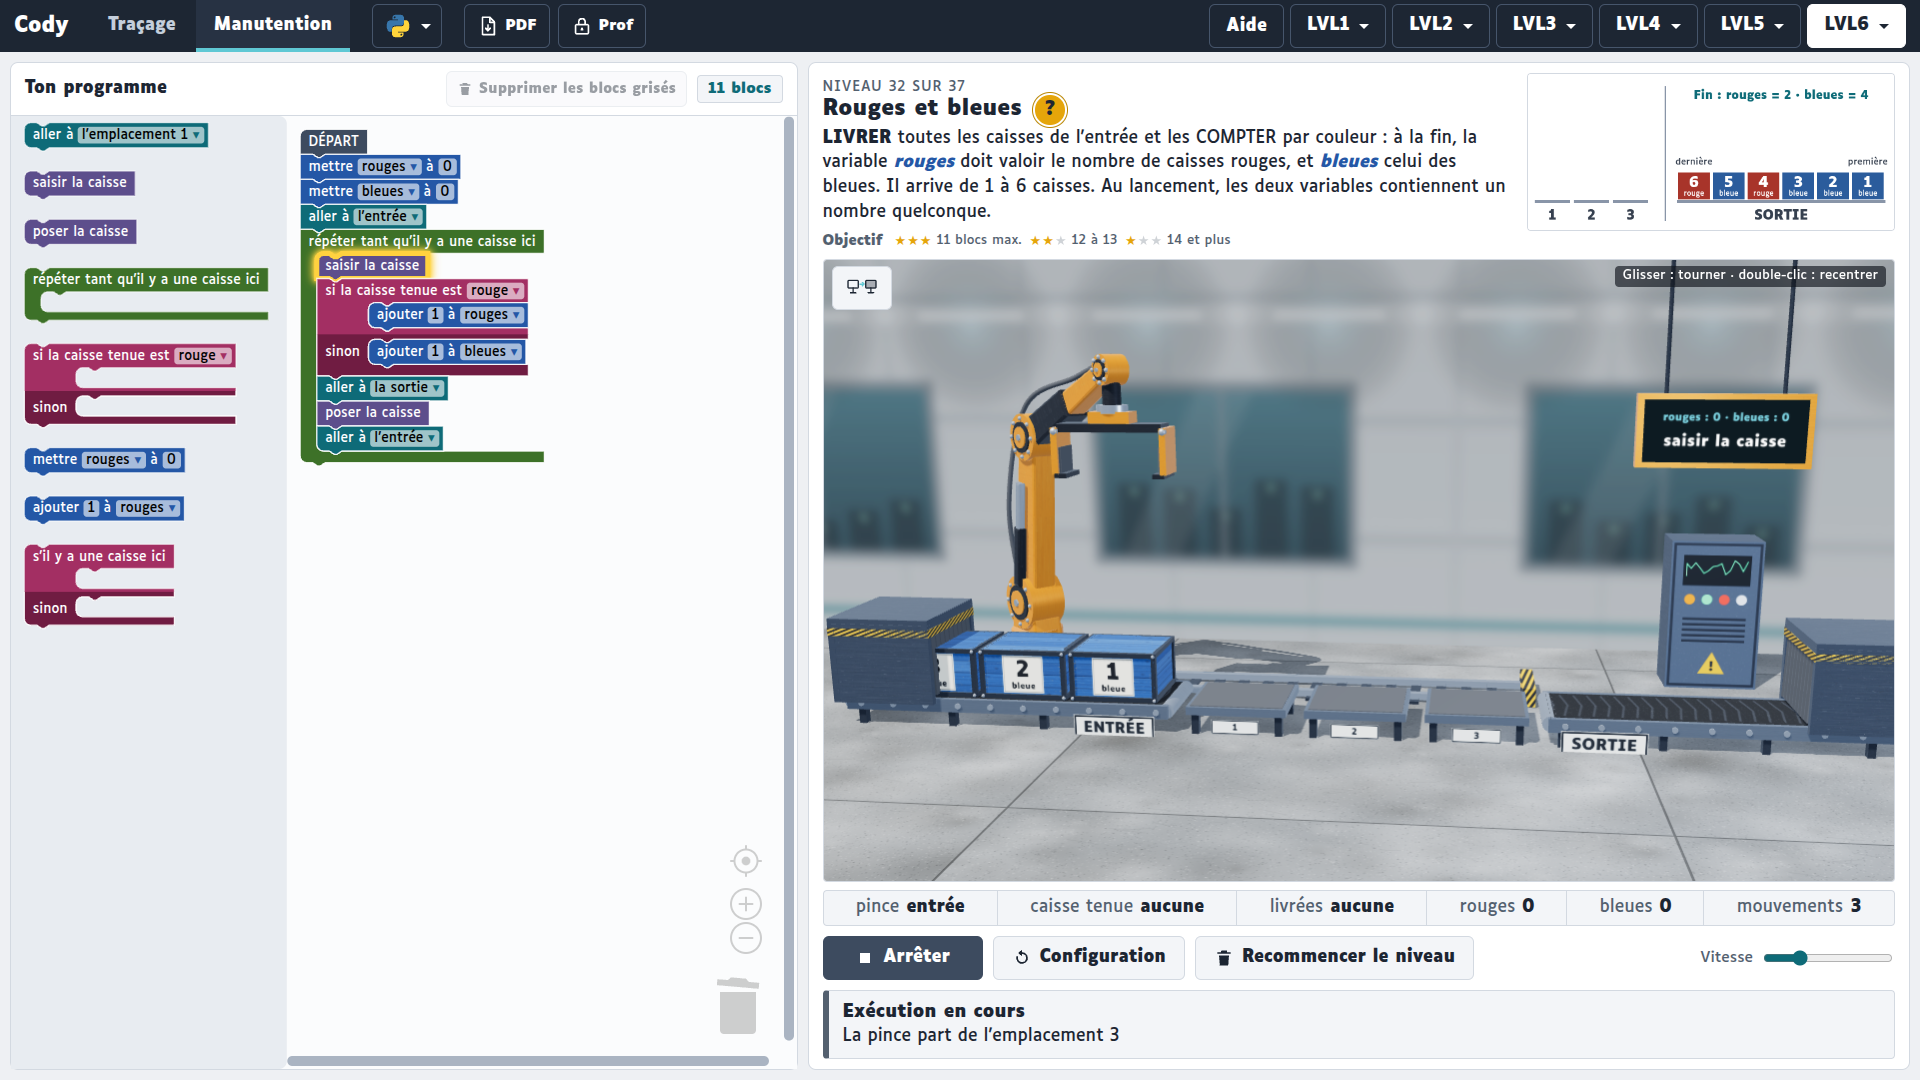
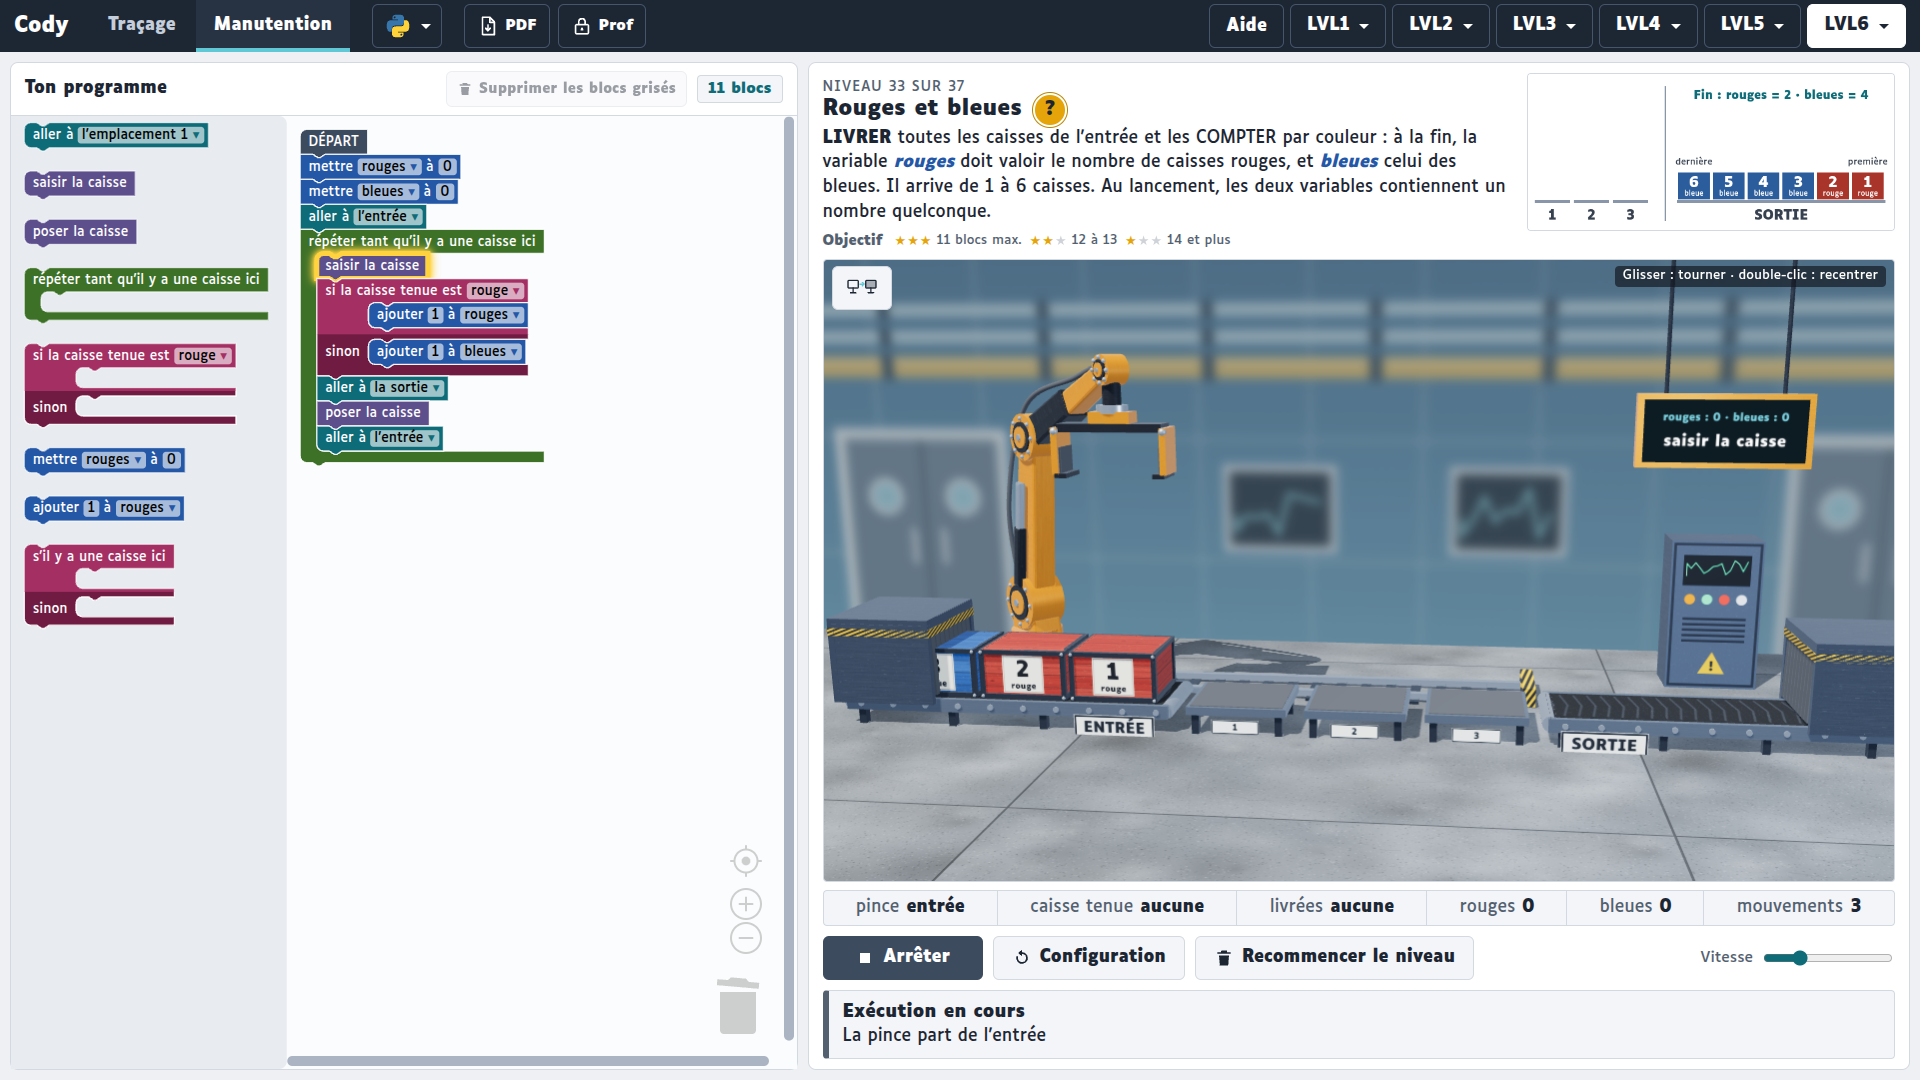
Variables reclassées par difficulté ; Rejouer au maximum ; aide plus compacte
- « Commande en double » (lire une variable) passe en tête du groupe (niveau 28) ;
  les anciens 28 à 34 avancent d'un rang. Étoiles, programmes et niveau ouvert
  des élèves suivent leur exercice (migration « manut-variables-ordre »).
- « Rejouer au maximum » prend aussi les plus grandes valeurs des variables
  données (niveau 28 : nombre = 3).
- Page d'aide : police et marges réduites, tout tient en 1920 x 1080, bouton
  « Commencer » compris.
- Docs et capture mises à jour.

diff --git a/js/manutention-moteur.js b/js/manutention-moteur.js
@@ -33,7 +33,7 @@
   const retirer = (v, n = 1) => ({ t: "retirer", v, n });
   const tantquevar = (v, op, n, ...corps) => ({ t: "tantquevar", v, op, n, corps });
   const sivar = (v, op, n, alors, sinon) => ({ t: "sivar", v, op, n, alors, sinon });
-  /* Comparer deux variables (niveaux 35 et 36 : une variable ne se compare pas qu'à un nombre) */
+  /* Comparer deux variables (niveaux 36 et 37 : une variable ne se compare pas qu'à un nombre) */
   /* Répéter autant de fois que la valeur d'une variable (lue une fois, au début de la boucle) */
   const repetervar = (v, ...corps) => ({ t: "repetervar", v, corps });
   const tantquevar2 = (v, op, w, ...corps) => ({ t: "tantquevar2", v, op, w, corps });
@@ -178,6 +178,7 @@
   });
 
   /* ---------- Groupe « Variables » (niveaux 28 à 37 de l'atelier) : le même bras, plus des variables ----------
+     Classés par difficulté : lire une variable (28), la modifier (29 à 35), en comparer deux (36, 37).
      Chaque niveau nomme ses variables (« variables ») ; chaque cas donne leurs valeurs au lancement
      (« vars ») et, quand elles sont contrôlées, leurs valeurs attendues à la fin (« varsFin »).
      Une variable qui n'est pas une donnée de l'exercice contient au lancement un nombre quelconque :
@@ -252,6 +253,14 @@
   const QUELCONQUE = "Au lancement, le {compteur} contient un nombre quelconque.";
 
   const VARIABLES = [
+    { titre: "Commande en double", verbe: "LIVRER", variables: ["nombre"], donnees: ["nombre"],
+      texte: "à la sortie autant de caisses que vaut la variable {nombre}, PUIS le MÊME nombre à l'emplacement 3, dans l'ordre d'arrivée. {nombre} vaut de 1 à 3 et change d'un essai à l'autre. L'entrée contient 6 caisses ; les autres y restent.",
+      indice: "Le bloc « répéter … fois » peut aussi recevoir une variable : « répéter {nombre} fois ». Deux boucles suffisent.",
+      blocs: [...BASE, "repeter", "repetervar"],
+      configs: [["JVBRBJ", 2], ["RBJVRB", 1], ["BBRJVR", 3]].map(([m, n]) => double(m, n)),
+      hasard: (alea = Math.random) => double(motifAlea(alea, 6, 6, "RBJV"), entier(alea, 1, 3)),
+      prog: [repetervar("nombre", aller("E"), saisir(), aller("S"), poser()),
+        repetervar("nombre", aller("E"), saisir(), aller("3"), poser())], opt: 10 },
     { titre: "Compter les caisses", verbe: "LIVRER", variables: ["compteur"],
       texte: `toutes les caisses de l'entrée et les COMPTER : à la fin, le {compteur} doit valoir le nombre de caisses livrées. Il en arrive de 1 à 6. ${QUELCONQUE}`,
       indice: "Mets d'abord le {compteur} à 0, puis ajoute 1 à chaque caisse livrée.",
@@ -305,14 +314,6 @@
       hasard: (alea = Math.random) => autant(motifAlea(alea, 1, 3, RBJ), quelconque(alea)),
       prog: [mettre("compteur", 0), aller("E"), tantque(saisir(), aller("S"), poser(), ajouter("compteur"), aller("E")),
         tantquevar("compteur", "gt", 0, aller("1"), saisir(), aller("S"), poser(), retirer("compteur"))], opt: 14 },
-    { titre: "Commande en double", verbe: "LIVRER", variables: ["nombre"], donnees: ["nombre"],
-      texte: "à la sortie autant de caisses que vaut la variable {nombre}, PUIS le MÊME nombre à l'emplacement 3, dans l'ordre d'arrivée. {nombre} vaut de 1 à 3 et change d'un essai à l'autre. L'entrée contient 6 caisses ; les autres y restent.",
-      indice: "Le bloc « répéter … fois » peut aussi recevoir une variable : « répéter {nombre} fois ». Deux boucles suffisent.",
-      blocs: [...BASE, "repeter", "repetervar"],
-      configs: [["JVBRBJ", 2], ["RBJVRB", 1], ["BBRJVR", 3]].map(([m, n]) => double(m, n)),
-      hasard: (alea = Math.random) => double(motifAlea(alea, 6, 6, "RBJV"), entier(alea, 1, 3)),
-      prog: [repetervar("nombre", aller("E"), saisir(), aller("S"), poser()),
-        repetervar("nombre", aller("E"), saisir(), aller("3"), poser())], opt: 10 },
     { titre: "Bon de commande", verbe: "LIVRER", variables: ["commande", "livraisons"], donnees: ["commande"],
       texte: "autant de caisses que la commande en demande, en les COMPTANT dans {livraisons}. La variable {commande} (de 1 à 5) ne doit pas changer : à la fin, {livraisons} doit être égale à {commande}. L'entrée contient 6 caisses ; les autres y restent. Au lancement, {livraisons} contient un nombre quelconque.",
       indice: "Une variable peut se comparer à une autre : répète tant que {livraisons} est plus petite que {commande}.",

diff --git a/tests/variables.test.js b/tests/variables.test.js
@@ -9,9 +9,9 @@ const poser = () => ({ t: "poser" });
 /* Générateur pseudo-aléatoire reproductible */
 const graine = (n) => () => ((n = (n * 16807) % 2147483647) - 1) / 2147483646;
 
-test("groupe « Variables » : 9 niveaux, optima attendus", () => {
+test("groupe « Variables » : 10 niveaux, optima attendus", () => {
   assert.deepEqual(V.map((n) => n.groupe), Array(10).fill("Variables"));
-  assert.deepEqual(V.map((n) => n.opt), [8, 6, 10, 12, 11, 11, 14, 10, 7, 22]);
+  assert.deepEqual(V.map((n) => n.opt), [10, 8, 6, 10, 12, 11, 11, 14, 7, 22]);
 });
 
 test("au moins deux niveaux comparent deux variables", () => {
@@ -70,25 +70,25 @@ test("« tant que » sur une variable qui ne change pas : arrêt par la limite",
 });
 
 test("variable contrôlée fausse : motif « variables », caisses bien placées", () => {
-  const niv = V[0];
+  const niv = V[1];
   const prog = [aller("E"), { t: "tantque", corps: [saisir(), aller("S"), poser(), aller("E")] }];
   const r = M.verifier(niv, prog);
   assert.equal(r.reussi, false);
   assert.equal(r.motif, "variables");
 });
 
-test("niveau 34 : livrer en alternant (sans variable) ne respecte pas l'ordre de la sortie", () => {
-  const niv = V[6];
+test("niveau 35 : livrer en alternant (sans variable) ne respecte pas l'ordre de la sortie", () => {
+  const niv = V[7];
   const prog = [aller("E"), { t: "tantque", corps: [saisir(), aller("S"), poser(), aller("1"), saisir(), aller("S"), poser(), aller("E")] }];
   assert.equal(M.verifier(niv, prog).reussi, false);
 });
 
 test("Python : noms des variables et comparaisons", () => {
-  const py = M.python(V[2].prog);
+  const py = M.python(V[3].prog);
   assert.match(py, /^compteur = 0$/m);
   assert.match(py, /if compteur < 4:/);
   assert.match(py, /compteur = compteur \+ 1/);
-  assert.match(M.python(V[1].prog), /while compteur > 0:/);
+  assert.match(M.python(V[2].prog), /while compteur > 0:/);
 });
 
 test("comparer deux variables : <, >, =, ≠", () => {
@@ -120,8 +120,13 @@ test("répéter « variable » fois : la valeur est lue une fois, au début", ()
   assert.match(M.python(prog), /for i in range\(n\):/);
 });
 
-test("niveau 35 : un nombre fixe de répétitions échoue (nombre change)", () => {
+test("niveau 28 : un nombre fixe de répétitions échoue (nombre change)", () => {
   const corps = (p) => [aller("E"), saisir(), aller(p), poser()];
   const prog = [{ t: "repeter", n: 2, corps: corps("S") }, { t: "repeter", n: 2, corps: corps("3") }];
-  assert.equal(M.verifier(V[7], prog).reussi, false);
+  assert.equal(M.verifier(V[0], prog).reussi, false);
+});
+
+test("groupe « Variables » : classé par difficulté, lire une variable avant de la modifier", () => {
+  assert.equal(V[0].titre, "Commande en double");
+  assert.deepEqual(V.slice(-2).map((n) => n.titre), ["Bon de commande", "La couleur majoritaire"]);
 });

diff --git a/tortue.css b/tortue.css
@@ -240,27 +240,28 @@ a:focus-visible,button:focus-visible,summary:focus-visible,input:focus-visible{o
 /* Page d'explications (niveau 0) */
 .jeu[hidden],.intro[hidden]{display:none}
 .intro{flex:1;min-height:0;overflow-y:auto;display:flex;padding:16px}
-.intro-page{width:100%;max-width:1660px;margin:auto;text-align:center;font-size:20px;line-height:1.7}
-.intro h2{font-size:38px}
-.intro h3{margin:0 0 10px;font-size:22px;color:var(--accent)}
+/* Tout doit tenir en 1920 x 1080, bouton « Commencer » compris (sinon un élève peut rester bloqué) */
+.intro-page{width:100%;max-width:1660px;margin:auto;text-align:center;font-size:18px;line-height:1.5}
+.intro h2{font-size:32px}
+.intro h3{margin:0 0 8px;font-size:20px;color:var(--accent)}
 .intro p{margin:4px 0}
 .intro .intro-chapeau{margin-top:10px;color:var(--doux)}
 .intro .intro-chapeau+.intro-chapeau{margin-top:2px}
-.intro-regle{margin:28px auto 0;max-width:860px;padding:22px 30px;border-radius:12px;border:2px solid #e5a50a;background:var(--carte)}
-.intro .intro-regle h3{color:var(--ink);font-size:28px}
-.intro-cartes{display:grid;grid-template-columns:minmax(0,1fr) minmax(0,2.75fr) minmax(0,1fr);gap:24px;margin-top:30px;text-align:left}
-.intro-cartes .carte{padding:20px 24px;display:block}
+.intro-regle{margin:18px auto 0;max-width:860px;padding:14px 26px;border-radius:12px;border:2px solid #e5a50a;background:var(--carte)}
+.intro .intro-regle h3{color:var(--ink);font-size:24px}
+.intro-cartes{display:grid;grid-template-columns:minmax(0,1.25fr) minmax(0,2fr) minmax(0,1.25fr);gap:20px;margin-top:20px;text-align:left}
+.intro-cartes .carte{padding:16px 22px;display:block}
 .intro-cartes dl{margin:0}
 .intro-cartes dt{font-weight:700}
-.intro-cartes dd{margin:0 0 12px;color:var(--doux);line-height:1.45}
+.intro-cartes dd{margin:0 0 8px;color:var(--doux);line-height:1.4}
 .intro-cartes dd:last-child{margin-bottom:0}
 .intro-postes{list-style:none;margin:0;padding:0}
-.intro-postes li{display:flex;align-items:center;gap:14px;margin-bottom:14px;font-size:17px;line-height:1.4}
+.intro-postes li{display:flex;align-items:center;gap:14px;margin-bottom:12px;font-size:17px;line-height:1.4}
 .intro-postes li:last-child{margin-bottom:0}
 .intro-postes svg{flex:0 0 108px;width:108px}
-.intro .intro-etoiles{margin-top:30px}
+.intro .intro-etoiles{margin-top:16px}
 .intro-etoiles span{color:#e5a50a;margin-right:8px}
-.intro .btn-go{margin:24px auto 0;display:flex;font-size:20px;min-height:3.25rem;padding:0 34px}
+.intro .btn-go{margin:12px auto 0;display:flex;font-size:20px;min-height:3.25rem;padding:0 34px}
 @media (max-width:1000px){.intro-cartes{grid-template-columns:minmax(0,1fr)}}
 
 /* Écran de réussite */

diff --git a/js/manutention.js b/js/manutention.js
@@ -308,11 +308,14 @@
   /* Un départ avec le plus grand nombre de caisses possible, couleurs au hasard : on tire un
      grand nombre de départs et on garde le plus fourni */
   const nombreCaisses = (cas) => Object.values(cas.depart).reduce((n, pile) => n + pile.length, 0);
+  /* Niveaux à variables données (commande, nombre, pile1…) : le nombre de caisses de départ ne change
+     pas toujours ; on prend aussi les plus grandes valeurs de ces variables (niveau 28 : nombre = 3) */
+  const taille = (cas) => nombreCaisses(cas) + (niv.donnees || []).reduce((n, v) => n + ((cas.vars || {})[v] || 0), 0);
   const departMaximum = () => {
     let meilleur = niv.hasard();
     for (let i = 0; i < 300; i++) {
       const cas = niv.hasard();
-      if (nombreCaisses(cas) > nombreCaisses(meilleur)) meilleur = cas;
+      if (taille(cas) > taille(meilleur)) meilleur = cas;
     }
     return meilleur;
   };
@@ -489,6 +492,21 @@
     for (let i = 12; i < 18; i++) delete notes[i];
     memo.ecrire("manut-notes-2", notes);
     memo.ecrire("manut-tri-alignement", true);
+  }
+  /* Groupe « Variables » reclassé par difficulté (27/11/2026) : « Commande en double » (ancien 35,
+     indice 34) passe en tête (indice 27) ; les anciens 28 à 34 (indices 27 à 33) avancent d'un rang.
+     Étoiles, programmes et niveau ouvert suivent leur exercice. */
+  if (!memo.lire("manut-variables-ordre", false)) {
+    const place = (i) => (i === 34 ? 27 : i >= 27 && i <= 33 ? i + 1 : i);
+    const anciens = Array.from({ length: 8 }, (_, k) => memo.lire("manut-prog-" + (27 + k), null));
+    anciens.forEach((prog, k) => memo.ecrire("manut-prog-" + place(27 + k), prog));
+    const avant = { ...notes };
+    for (let i = 27; i <= 34; i++) delete notes[i];
+    for (let i = 27; i <= 34; i++) if (avant[i] !== undefined) notes[place(i)] = avant[i];
+    memo.ecrire("manut-notes-2", notes);
+    const ouvert = +memo.lire("manut-niveau", 0) || 0;
+    memo.ecrire("manut-niveau", place(ouvert));
+    memo.ecrire("manut-variables-ordre", true);
   }
   if (!memo.lire("manut-niveau10-trois-couleurs", false)) {
     delete notes[9];

diff --git a/CLAUDE.md b/CLAUDE.md
@@ -130,7 +130,8 @@ avec **géoblocage et CrowdSec, rien d'autre** (demande de l'enseignant ; modèl
   « Aide ». Contenu : blocs grisés, jaune / rouge pendant l'exécution, tous les cas testés,
   « Configuration » / « Exécuter », initialiser (machine et variables), prendre une caisse, répéter et
   choisir (dont variables : mettre, ajouter, retirer, comparer à un nombre ou à une variable).
-  **La tenir à jour quand une règle change.**
+  **La tenir à jour quand une règle change**, et qu'elle tienne en 1920 x 1080 bouton « Commencer »
+  compris (police 18 px ; sinon un élève peut rester bloqué : remarque de l'enseignant).
 - **Second écran** : bouton (deux moniteurs) en haut à gauche de la scène, masqué seulement si
   `getScreenDetails()` (autorisé) ne voit qu'un écran (`screen.isExtended` ment dans Brave). Ouvre
   `vue.html` sur l'autre écran (autorisation « gestion des fenêtres » ; sinon fenêtre à déplacer,
@@ -189,19 +190,21 @@ avec **géoblocage et CrowdSec, rien d'autre** (demande de l'enseignant ; modèl
 - Consignes et indices : `{nom}` marque une variable, affichée en `<var class="nom-var">` (italique, gras,
   bleu des blocs variable ; `A.riche`), accolades retirées dans le PDF (demande de l'enseignant).
 - Chaque cas porte `vars` (valeurs au lancement) et, si contrôlées, `varsFin` (motif d'échec
-  « variables » : « compteur vaut 9 au lieu de 5 »). Sauf celles listées dans `donnees` (niveaux 29, 31,
-  35, 36 : la valeur est l'énoncé, affichée dans l'objectif « Départ : … »), la valeur de départ est quelconque (1 à 9) :
-  il faut l'initialiser. Valeurs dans le relevé, en titre de l'écran 3D (`vue.variables`) et en haut du 2D.
-- Niveaux (optimum) : 28 compter les caisses (8) ; 29 la commande (6) ; 30 deux piles (10) ; 31 piles
-  sur mesure (2 variables données, 12) ; 32 rouges et bleues (2 variables, 11) ; 33 contrôle qualité
-  (une sur trois, 11) ; 34 autant de vertes (14 ; l'ordre de la sortie interdit d'alterner sans
-  variable) ; 35 commande en double (10 ; « répéter nombre fois ») ; 36 bon de commande (7 ;
-  `commande` ne doit pas changer, ce qui interdit de la décompter) ; 37 couleur majoritaire (22 ;
+  « variables » : « compteur vaut 9 au lieu de 5 »). Sauf celles listées dans `donnees` (niveaux 28, 30,
+  32, 36 : la valeur est l'énoncé, affichée dans l'objectif « Départ : … »), la valeur de départ est quelconque (1 à 9) :
+  il faut l'initialiser. « Rejouer au maximum » prend aussi les plus grandes valeurs des variables
+  `donnees` (niveau 28 : nombre = 3). Valeurs dans le relevé, en titre de l'écran 3D (`vue.variables`) et en haut du 2D.
+- Niveaux (optimum), **classés par difficulté** (27/11/2026, remarque de l'enseignant : l'ancien 35 était
+  bien plus facile que le 34) : 28 commande en double (10 ; « répéter nombre fois », lire une variable) ;
+  29 compter les caisses (8) ; 30 la commande (6) ; 31 deux piles (10) ; 32 piles sur mesure (2 variables
+  données, 12) ; 33 rouges et bleues (2 variables, 11) ; 34 contrôle qualité (une sur trois, 11) ;
+  35 autant de vertes (14 ; l'ordre de la sortie interdit d'alterner sans variable) ; 36 bon de commande
+  (7 ; `commande` ne doit pas changer, ce qui interdit de la décompter) ; 37 couleur majoritaire (22 ;
   `retirer` et `sivar` absents de la boîte, sinon une seule variable « écart » suffisait).
-  35 à 37 : demandes de l'enseignant (répéter « variable » fois ; comparer deux variables, pour ne pas
-  laisser croire qu'on ne compare qu'à un nombre). Optima = solutions écrites, non prouvés minimaux.
-  Départs aléatoires partout. Testés par l'enseignant le 27/11/2026 : 31 et 34 (consigne du 34 reprise :
-  « PUIS le MÊME nombre ») ; les autres pas encore.
+  Reclassement : `manut-variables-ordre` déplace étoiles, programmes et niveau ouvert (`manutention.js`).
+  Optima = solutions écrites, non prouvés minimaux. Départs aléatoires partout. Testés par l'enseignant
+  le 27/11/2026 : piles sur mesure, autant de vertes (consigne reprise : « PUIS le MÊME nombre »),
+  commande en double.
 
 ## Rendu 3D : règles et performances (27/11/2026)
 

diff --git a/README.md b/README.md
@@ -50,10 +50,10 @@ Autres points :
 | **Centre de tri : rouges à part (convoyeurs)** | **Bras pivotant : la navette** |
 | ![Centre de tri, niveau 14 : plateaux tournants qui envoient les caisses rouges vers la sortie A](docs/captures/centre-de-tri.png) | ![Bras pivotant, niveau 20 : transférer toutes les caisses sur le tapis nord](docs/captures/pivot.png) |
 
-**Variables : rouges et bleues** (niveau 32) — le programme compte chaque couleur dans sa variable ;
+**Variables : rouges et bleues** (niveau 33) — le programme compte chaque couleur dans sa variable ;
 les valeurs s'affichent sur l'écran de la scène et dans le relevé.
 
-![Niveau 32 « Rouges et bleues » : deux variables, rouges et bleues, comptent les caisses livrées ; leurs noms sont en italique bleu dans la consigne](docs/captures/variables.png)
+![Niveau 33 « Rouges et bleues » : deux variables, rouges et bleues, comptent les caisses livrées ; leurs noms sont en italique bleu dans la consigne](docs/captures/variables.png)
 
 ## Inspiration
 
